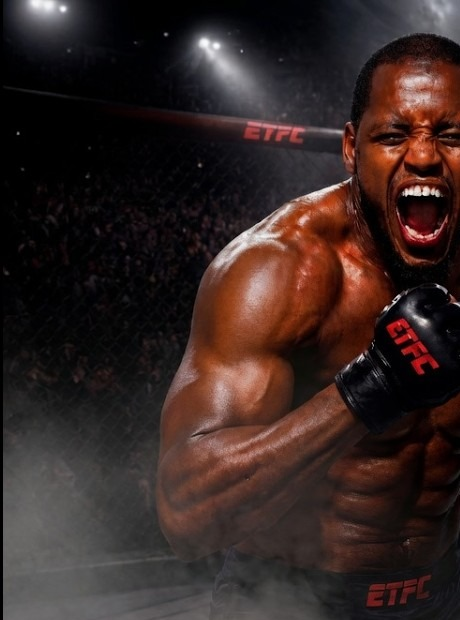
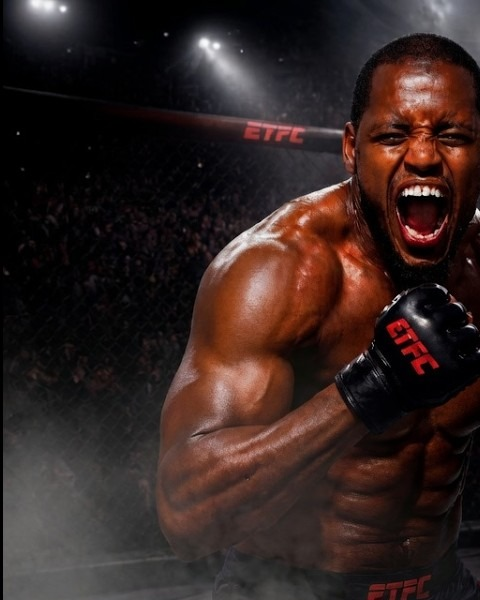
done?

diff --git a/etfc-site/js/auth.js b/etfc-site/js/auth.js
@@ -67,7 +67,7 @@ async function signInWithGoogle() {
     completeSignIn({ name: displayName, email, uid, method: "google" });
   } catch (err) {
     console.error("Google sign-in failed:", err);
-    alert("Google sign-in failed — please try again.");
+    showToast("Google sign-in failed — please try again.", "error");
   }
 }
 
@@ -79,9 +79,9 @@ async function sendEmailOtp(e) {
   const phone = document.getElementById("phoneInput").value.trim();
   const email = document.getElementById("emailInput").value.trim();
 
-  if (!name) return alert("Enter your full name.");
-  if (!phone) return alert("Enter your phone number.");
-  if (!email) return alert("Enter your email address.");
+  if (!name) return showToast("Enter your full name.", "error");
+  if (!phone) return showToast("Enter your phone number.", "error");
+  if (!email) return showToast("Enter your email address.", "error");
 
   pendingSignup = { name, phone, email };
 
@@ -95,18 +95,19 @@ async function sendEmailOtp(e) {
     if (!res.ok) throw new Error(data.error || "Could not send verification code.");
   } catch (err) {
     console.error("sendEmailOtp failed:", err);
-    alert(err.message || "Could not send verification code. Try again.");
+    showToast(err.message || "Could not send verification code. Try again.", "error");
     return;
   }
 
+  showToast("Verification code sent — check your email.", "success");
   document.getElementById("otpEmailTarget").textContent = email;
   showStep("authStepOtp");
 }
 
 async function verifyEmailOtp() {
   const digits = [...document.querySelectorAll("#authStepOtp input")].map((i) => i.value).join("");
-  if (digits.length !== 6) return alert("Enter the full 6-digit code.");
-  if (!pendingSignup) return alert("Session expired — please start over.");
+  if (digits.length !== 6) return showToast("Enter the full 6-digit code.", "error");
+  if (!pendingSignup) return showToast("Session expired — please start over.", "error");
 
   try {
     const res = await fetch("/api/verify-otp", {
@@ -119,9 +120,10 @@ async function verifyEmailOtp() {
 
     await auth.signInWithCustomToken(data.token);
     completeSignIn({ name: data.name, phone: data.phone, email: data.email, method: "email" });
+    showToast(`Welcome, ${data.name.split(" ")[0]}!`, "success");
   } catch (err) {
     console.error("verifyEmailOtp failed:", err);
-    alert(err.message || "Incorrect or expired code.");
+    showToast(err.message || "Incorrect or expired code.", "error");
     return;
   }
 

diff --git a/etfc-site/css/style.css b/etfc-site/css/style.css
@@ -331,3 +331,40 @@ footer .copyright { font-size: 12px; color: var(--bone-dim); font-family: var(--
   .bout-row .matchup-line { flex-direction: column; }
   .bout-row .fighter-block.right { flex-direction: row; text-align: left; }
 }
+
+/* ---------- TOAST NOTIFICATIONS ---------- */
+#toast-host {
+  position: fixed; top: 84px; right: 20px; z-index: 999;
+  display: flex; flex-direction: column; gap: 10px;
+  pointer-events: none;
+}
+.toast {
+  display: flex; align-items: center; gap: 10px;
+  min-width: 240px; max-width: 360px;
+  background: var(--obsidian-2, #161616);
+  border: 1px solid var(--border);
+  border-left: 4px solid var(--bone-dim);
+  border-radius: 6px;
+  padding: 14px 16px;
+  font-size: 13px; font-weight: 600; color: var(--bone);
+  box-shadow: 0 8px 24px rgba(0,0,0,0.4);
+  opacity: 0; transform: translateX(24px);
+  transition: opacity 0.25s ease, transform 0.25s ease;
+}
+.toast.show { opacity: 1; transform: translateX(0); }
+.toast-icon {
+  width: 22px; height: 22px; border-radius: 50%;
+  display: flex; align-items: center; justify-content: center;
+  font-size: 13px; font-weight: 800; flex-shrink: 0;
+}
+.toast-success { border-left-color: #2ecc71; }
+.toast-success .toast-icon { background: rgba(46,204,113,0.15); color: #2ecc71; }
+.toast-error { border-left-color: var(--crimson-bright, #e5384d); }
+.toast-error .toast-icon { background: rgba(229,56,77,0.15); color: var(--crimson-bright, #e5384d); }
+.toast-info { border-left-color: var(--gold, #d4af37); }
+.toast-info .toast-icon { background: rgba(212,175,55,0.15); color: var(--gold, #d4af37); }
+
+@media (max-width: 500px) {
+  #toast-host { left: 12px; right: 12px; top: 76px; }
+  .toast { max-width: none; }
+}

diff --git a/etfc-site/js/main.js b/etfc-site/js/main.js
@@ -23,6 +23,31 @@ function tickCountdown() {
 setInterval(tickCountdown, 1000);
 document.addEventListener("DOMContentLoaded", tickCountdown);
 
+// ── TOAST NOTIFICATIONS ───────────────────────────────────────────────────
+// Usage: showToast("Code sent!", "success") | showToast("Wrong code.", "error")
+// Replaces plain browser alert() popups everywhere on the site.
+function showToast(message, type = "info") {
+  let host = document.getElementById("toast-host");
+  if (!host) {
+    host = document.createElement("div");
+    host.id = "toast-host";
+    document.body.appendChild(host);
+  }
+
+  const icons = { success: "&#10003;", error: "&#33;", info: "&#8505;" };
+  const toast = document.createElement("div");
+  toast.className = `toast toast-${type}`;
+  toast.innerHTML = `<span class="toast-icon">${icons[type] || icons.info}</span><span class="toast-msg">${message}</span>`;
+  host.appendChild(toast);
+
+  requestAnimationFrame(() => toast.classList.add("show"));
+
+  setTimeout(() => {
+    toast.classList.remove("show");
+    setTimeout(() => toast.remove(), 250);
+  }, 4000);
+}
+
 // ── BUY TICKET / PLACE BET buttons anywhere on the site ──────────────────
 // Usage: <button onclick="goToTickets()">Buy Ticket</button>
 function goToTickets() {

diff --git a/etfc-site/admin/index.html b/etfc-site/admin/index.html
@@ -5,6 +5,7 @@
 <meta name="viewport" content="width=device-width, initial-scale=1.0">
 <title>ETFC Admin — Order Review</title>
 <link rel="stylesheet" href="../css/style.css">
+<script src="../js/main.js"></script>
 </head>
 <body>
 
@@ -133,11 +134,13 @@
       });
       const data = await res.json();
       if (!res.ok) {
-        alert(data.error || "Action failed.");
+        showToast(data.error || "Action failed.", "error");
+      } else {
+        showToast(action === "confirm" ? "Order confirmed." : "Order rejected.", "success");
       }
       loadOrders(currentStatus);
     } catch (err) {
-      alert("Network error — try again.");
+      showToast("Network error — try again.", "error");
       loadOrders(currentStatus);
     }
   }

diff --git a/etfc-site/index.html b/etfc-site/index.html
@@ -12,7 +12,7 @@
 
 <!-- HERO -->
 <section class="hero">
-  <div class="hero-bg"><div class="face left"></div><div class="face right"></div></div>
+  <div class="hero-bg"><div class="face left" style="background-image:url('images/fighter-a.jpg');"></div><div class="face right" style="background-image:url('images/fighter-b.jpg');"></div></div>
   <div class="hero-content">
     <div class="hero-label">ETFC Fight Night &middot; Heavyweight Bout</div>
     <h1 class="hero-title">SEDO <span class="vs">VS</span> JONNY</h1>
